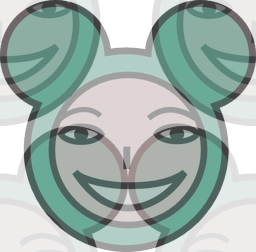
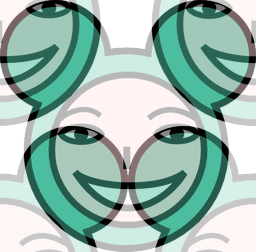
(python-pillow) Move pattern.py to another repository and update the output image.

diff --git a/source/python-pillow.rst b/source/python-pillow.rst
@@ -124,7 +124,7 @@ GIF 画像ファイル :file:`image.gif` を PNG 形式に変換して、
 
 Pillow がサポートする画像フォーマットを知る
 ----------------------------------------------------------------------
-Pillow のインストールディレクトリーで ``grep Image.resiter_ *.py`` するとよい。
+Pillow のインストールディレクトリーで ``grep Image.register_ *.py`` するとよい。
 
 画像データをバイト配列として扱う
 ----------------------------------------------------------------------
@@ -441,8 +441,8 @@ Hello, world
 #. 元画像を :math:`2 \times 2` 分割して対角線上の区域を入れ替える。
 #. そこへ元画像をブレンドなりオーバーレイなりして重ね合わせる。
 
-.. literalinclude:: /_sample/pillow/pattern.py
-   :language: python3
+スクリプトのリポジトリーを移転したので、次のリンク先を参照。
+`pattern.py <https://github.com/showa-yojyo/sketchbook/blob/develop/tools/pattern.py>`_
 
 モジュール ``ImagePath``
 ----------------------------------------------------------------------
